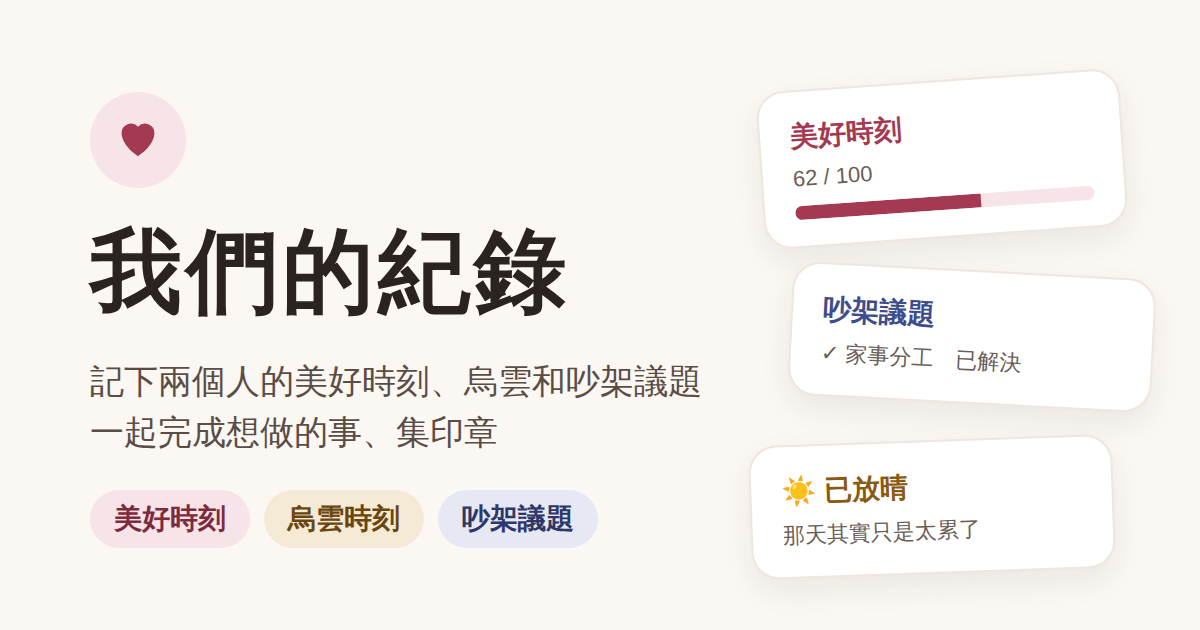
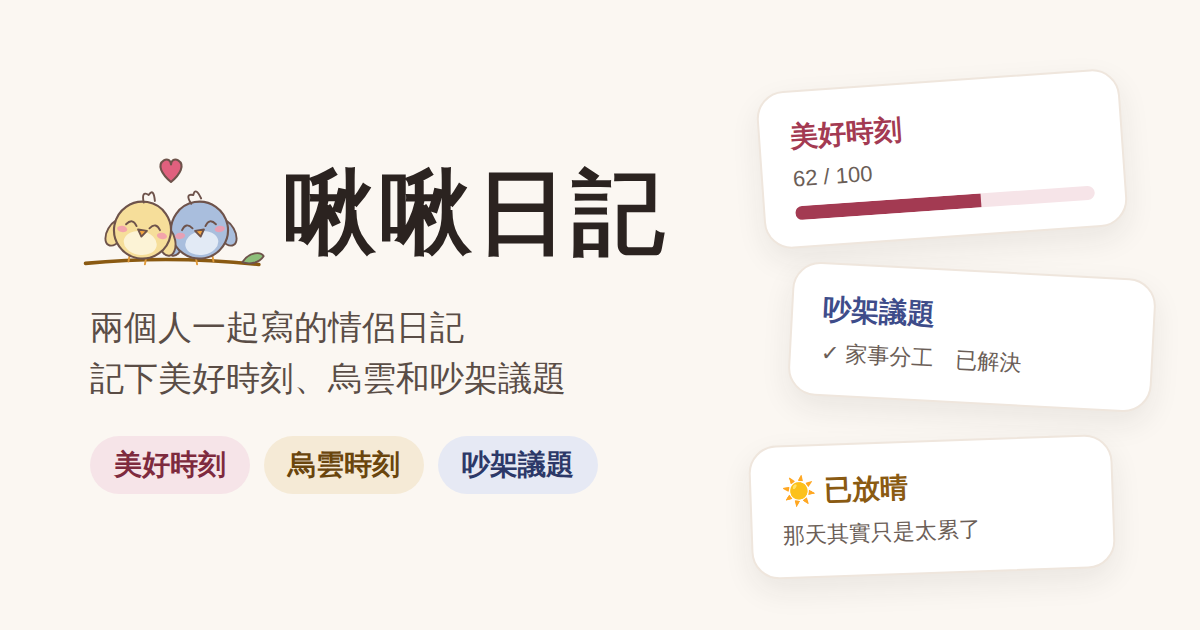
App 改名「啾啾日記」：分享預覽、預覽圖、登入頁、主畫面名稱
Claude-Session: https://claude.ai/code/session_01TeW9z2e7e2hgqidZhk64Nv

diff --git a/index.html b/index.html
@@ -8,24 +8,24 @@
   <meta http-equiv="Content-Security-Policy" content="default-src 'self'; script-src 'self'; connect-src 'self' https://bihepkbxeqvufbbnokuw.supabase.co data:; img-src 'self' blob: data:; style-src 'self' 'unsafe-inline' https://fonts.googleapis.com; font-src https://fonts.gstatic.com; object-src 'none'; base-uri 'self'; form-action 'self'">
   <meta name="referrer" content="no-referrer">
   <meta name="apple-mobile-web-app-capable" content="yes">
-  <meta name="apple-mobile-web-app-title" content="我們的紀錄">
-  <title>我們的紀錄｜情侶的美好時刻、烏雲與吵架紀錄</title>
-  <meta name="description" content="給情侶的紀錄 App：記下美好時刻、烏雲時刻和吵架議題，一起完成想做的事、集印章。不用註冊就能先用，也能用分享碼給另一半看。">
+  <meta name="apple-mobile-web-app-title" content="啾啾日記">
+  <title>啾啾日記｜情侶的美好時刻、烏雲與吵架紀錄</title>
+  <meta name="description" content="啾啾日記，給情侶的紀錄 App：記下美好時刻、烏雲時刻和吵架議題，一起完成想做的事、集印章。不用註冊就能先用，也能用分享碼給另一半看。">
   <link rel="canonical" href="https://diary.jas-soul.com/">
   <meta property="og:type" content="website">
-  <meta property="og:site_name" content="我們的紀錄">
+  <meta property="og:site_name" content="啾啾日記">
   <meta property="og:locale" content="zh_TW">
   <meta property="og:url" content="https://diary.jas-soul.com/">
-  <meta property="og:title" content="我們的紀錄｜兩個人的美好時刻、烏雲與吵架紀錄">
-  <meta property="og:description" content="記下美好時刻、烏雲時刻和吵架議題，一起完成想做的事、集印章。不用註冊就能先用。">
-  <meta property="og:image" content="https://diary.jas-soul.com/og.png">
+  <meta property="og:title" content="啾啾日記｜兩個人一起寫的情侶日記">
+  <meta property="og:description" content="兩個人一起寫的情侶日記：記下美好時刻、烏雲時刻和吵架議題，一起完成想做的事、集印章。不用註冊就能先用。">
+  <meta property="og:image" content="https://diary.jas-soul.com/og.png?v=2">
   <meta property="og:image:width" content="1200">
   <meta property="og:image:height" content="630">
-  <meta property="og:image:alt" content="我們的紀錄：情侶的美好時刻、烏雲與吵架紀錄">
+  <meta property="og:image:alt" content="啾啾日記：兩隻小鳥吉祥物和情侶日記的畫面">
   <meta name="twitter:card" content="summary_large_image">
-  <meta name="twitter:title" content="我們的紀錄｜兩個人的美好時刻、烏雲與吵架紀錄">
+  <meta name="twitter:title" content="啾啾日記｜兩個人一起寫的情侶日記">
   <meta name="twitter:description" content="記下美好時刻、烏雲時刻和吵架議題，一起完成想做的事、集印章。">
-  <meta name="twitter:image" content="https://diary.jas-soul.com/og.png">
+  <meta name="twitter:image" content="https://diary.jas-soul.com/og.png?v=2">
   <link rel="manifest" href="manifest.json">
   <link rel="icon" href="icons/icon.svg" type="image/svg+xml">
   <link rel="apple-touch-icon" href="icons/icon-180.png">
@@ -36,7 +36,7 @@
 <body>
   <main id="app">
     <div class="empty">載入中…</div>
-    <noscript><h1>我們的紀錄</h1><p>給情侶的紀錄 App：記下美好時刻、烏雲時刻和吵架議題。請開啟瀏覽器的 JavaScript 才能使用。</p></noscript>
+    <noscript><h1>啾啾日記</h1><p>給情侶的紀錄 App：記下美好時刻、烏雲時刻和吵架議題。請開啟瀏覽器的 JavaScript 才能使用。</p></noscript>
   </main>
   <nav id="tabbar" class="tabbar"></nav>
   <div id="toast" class="toast" role="status" aria-live="polite"></div>

diff --git a/js/app.js b/js/app.js
@@ -1,4 +1,4 @@
-// 我們的紀錄
+// 啾啾日記
 // 畫面用網址後面的 # 切換，例如 #/list/happy、#/new/fight、#/view/<id>。
 // 用分享碼加入的另一半會進入「另一半模式」：只能看、做任務，不能改紀錄。
 
@@ -1799,7 +1799,7 @@ async function dataUrlToBlob(url) {
 // 備份檔裡的 id 只能是英數字，避免被拿來組出奇怪的網址或雲端路徑
 const SAFE_ID = /^[A-Za-z0-9_-]{1,64}$/;
 function checkBackup(data) {
-  if (!data || data.app !== 'couple-diary' || !Array.isArray(data.records)) throw new Error('這不是我們的紀錄的備份檔');
+  if (!data || data.app !== 'couple-diary' || !Array.isArray(data.records)) throw new Error('這不是啾啾日記的備份檔');
   for (const r of data.records) {
     if (!r || !SAFE_ID.test(r.id) || !TYPES[r.type]) throw new Error('備份檔內容不對，沒有匯入');
     if (r.photoIds && (!Array.isArray(r.photoIds) || !r.photoIds.every((x) => SAFE_ID.test(x)))) throw new Error('備份檔內容不對，沒有匯入');
@@ -1869,7 +1869,7 @@ async function buildReadableExport(onlyShared = false) {
   return `<!doctype html>
 <html lang="zh-Hant"><head><meta charset="utf-8"><meta name="viewport" content="width=device-width, initial-scale=1">
 <meta http-equiv="Content-Security-Policy" content="default-src 'none'; img-src data:; style-src 'unsafe-inline'">
-<title>我們的紀錄（閱讀版 ${today()}）</title>
+<title>啾啾日記（閱讀版 ${today()}）</title>
 <style>
 body{margin:0;background:#FBF7F2;color:#2B2320;font-family:"Noto Sans TC",-apple-system,"PingFang TC","Microsoft JhengHei",sans-serif;line-height:1.7}
 main{max-width:720px;margin:0 auto;padding:32px 20px 64px}
@@ -2728,7 +2728,7 @@ function bindShareCard() {
   });
   if ($('s-copy')) $('s-copy').addEventListener('click', async () => {
     const code = document.querySelector('.share-code').textContent;
-    const text = `點這個連結加入我們的紀錄：${location.origin + location.pathname}#/join/${code}（密碼我另外告訴你）`;
+    const text = `點這個連結，一起用啾啾日記：${location.origin + location.pathname}#/join/${code}（密碼我另外告訴你）`;
     try { await navigator.clipboard.writeText(text); toast('已複製'); } catch (e) { prompt('複製下面這段文字', text); }
   });
   if ($('s-save-name')) $('s-save-name').addEventListener('click', async () => {
@@ -2908,8 +2908,8 @@ function viewLogin(mode = 'signin') {
   const isUp = mode === 'signup';
   app.innerHTML = `
     <div style="display:flex;flex-direction:column;align-items:center;gap:10px;text-align:center;margin-top:40px">
-      <div class="thumb" style="width:72px;height:72px;border-radius:99px">${ICON.heart}</div>
-      <h1 class="title-xl">我們的紀錄</h1>
+      ${mascotHtml('happy', 140)}
+      <h1 class="title-xl">啾啾日記</h1>
       <div class="muted">${isUp ? '建立帳號，紀錄就會存在雲端' : '記下你們的美好時刻、烏雲時刻和吵架議題'}</div>
     </div>
     ${inAppNotice()}

diff --git a/README.md b/README.md
@@ -1,4 +1,4 @@
-# 我們的紀錄
+# 啾啾日記
 
 記錄情侶之間的美好時刻、烏雲時刻和吵架議題的小網頁 App，用手機瀏覽器打開就能用。
 
